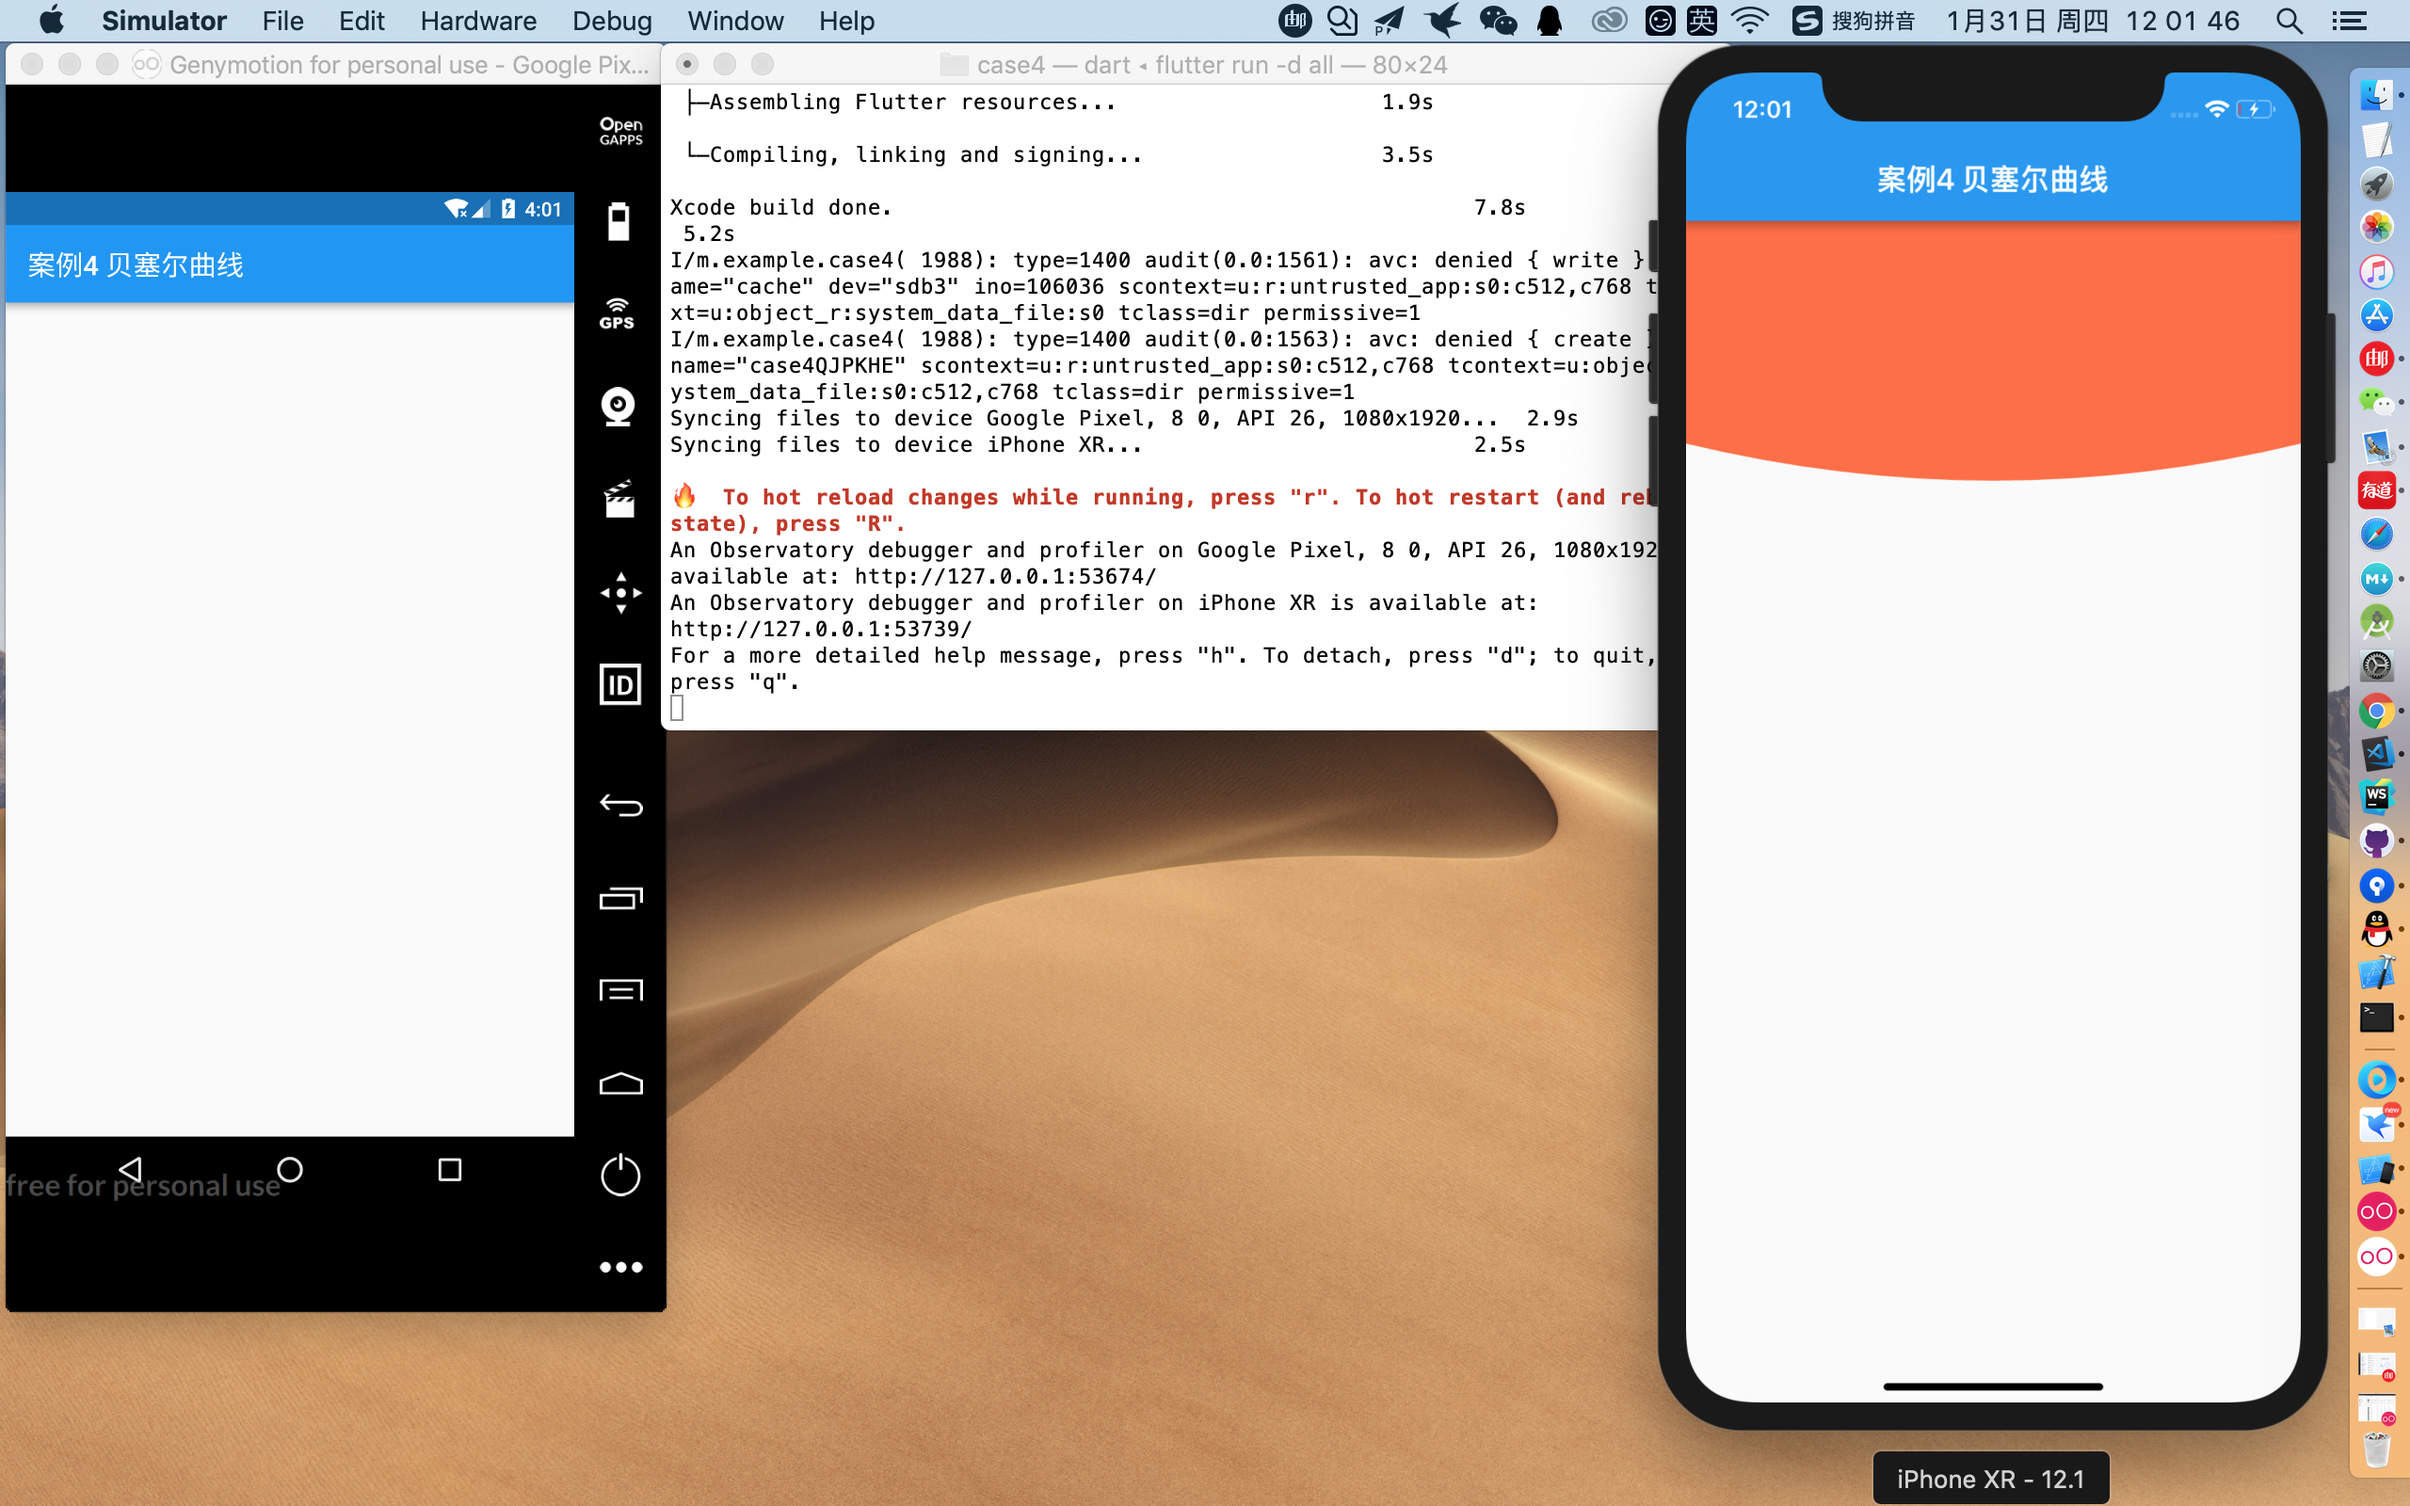
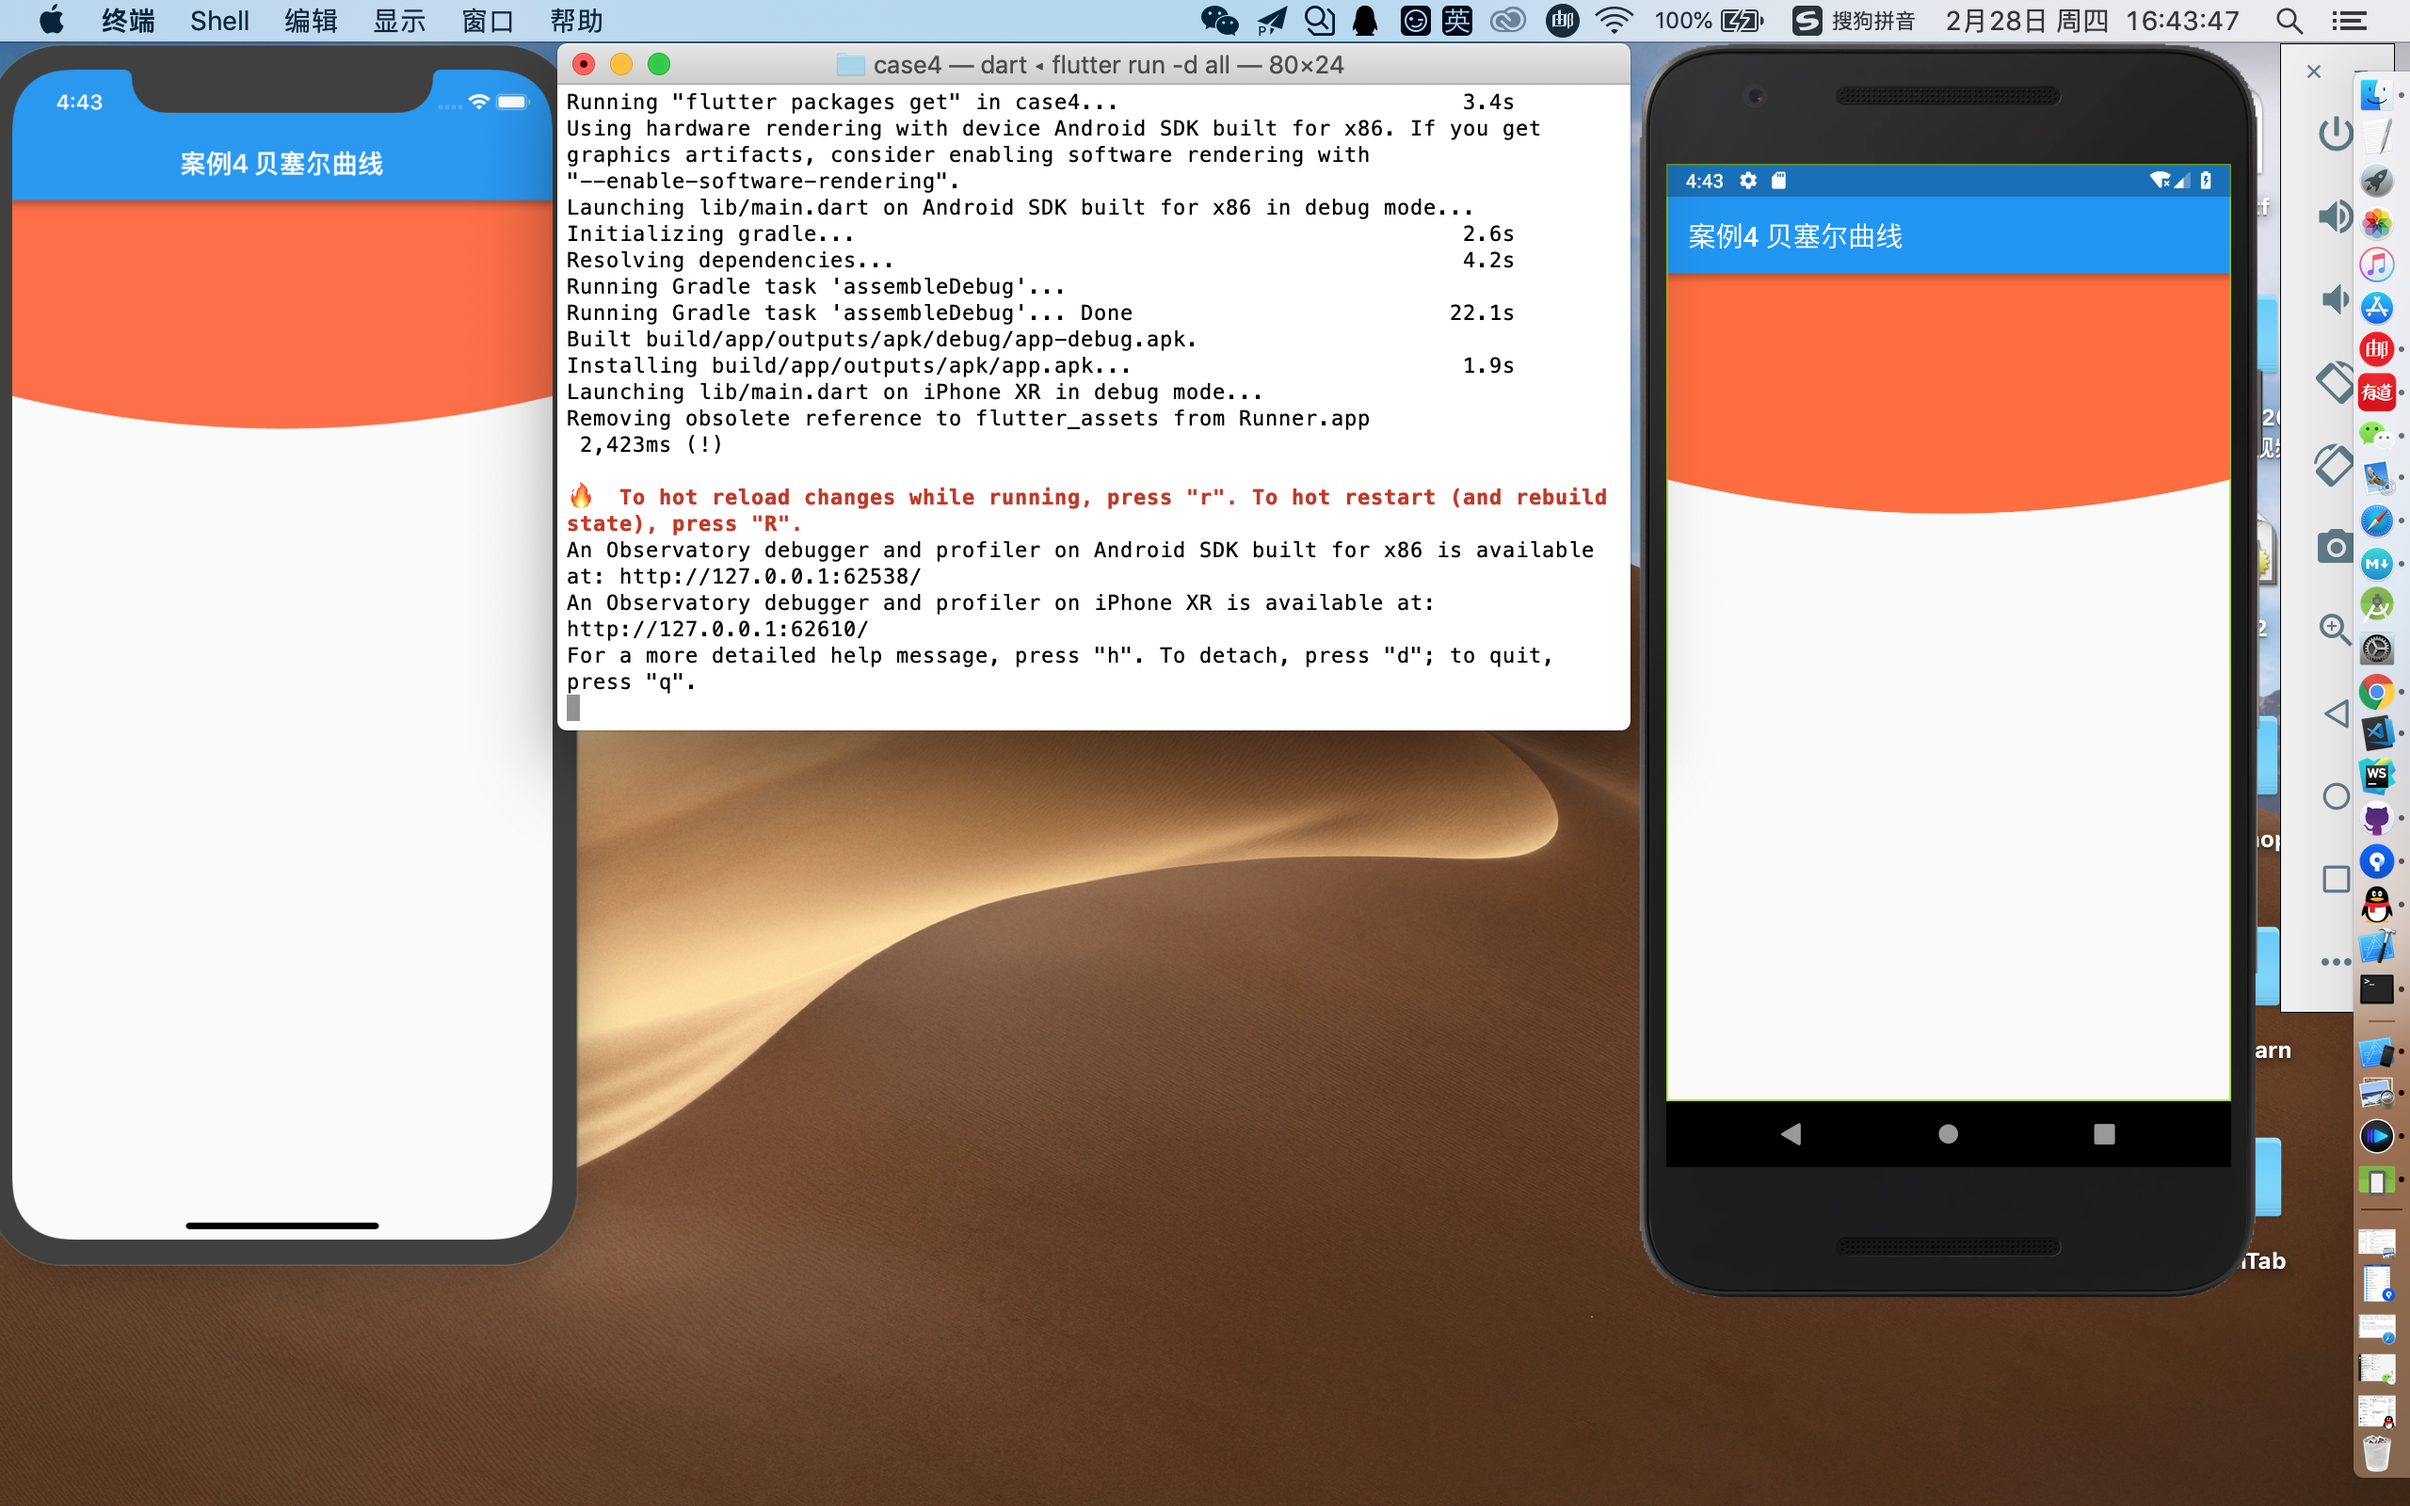
更换模拟器截图
更换模拟器截图

diff --git a/其他/案例/case4/lib/main.dart b/其他/案例/case4/lib/main.dart
@@ -35,8 +35,8 @@ class HomePage extends StatelessWidget {
     return Column(
       children: <Widget>[
         ClipPath(
-          clipper: BottomClipper(),
-          // clipper: BottomClipperTest(),
+          // clipper: BottomClipper(),
+          clipper: BottomClipperTest(),
           child: Container(
             color: Colors.deepOrangeAccent,
             height: 200.0,
